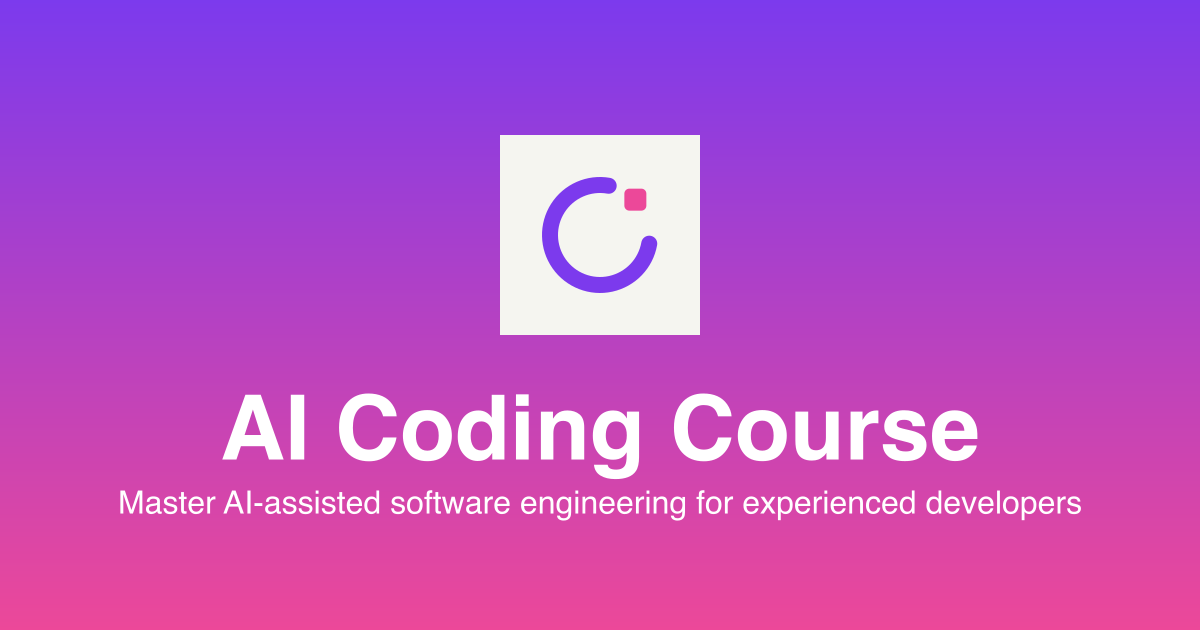
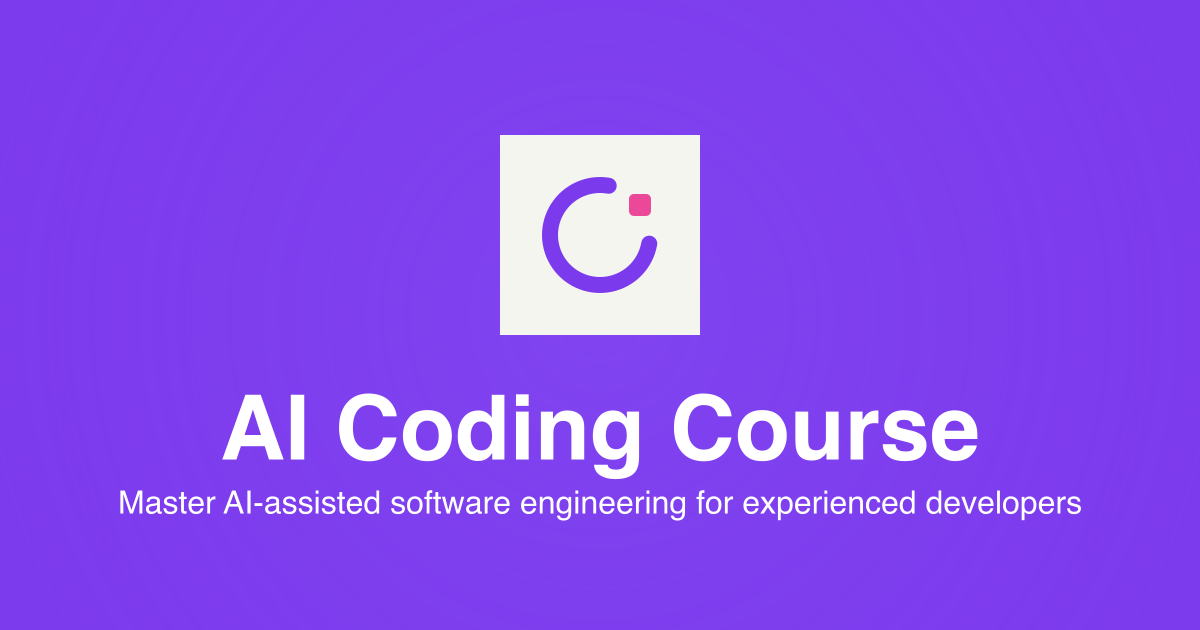
Updated social card

diff --git a/scripts/generate-social-card.js b/scripts/generate-social-card.js
@@ -19,12 +19,19 @@ async function generateSocialCard() {
   const canvas = createCanvas(WIDTH, HEIGHT);
   const ctx = canvas.getContext('2d');
 
-  // Create gradient background (purple to pink, matching the original)
-  const gradient = ctx.createLinearGradient(0, 0, 0, HEIGHT);
-  gradient.addColorStop(0, '#7c3aed');   // Purple
-  gradient.addColorStop(1, '#ec4899');   // Fuchsia/Pink
+  // Solid color background (professional minimalist approach)
+  ctx.fillStyle = '#7c3aed';  // Brand primary purple
+  ctx.fillRect(0, 0, WIDTH, HEIGHT);
 
-  ctx.fillStyle = gradient;
+  // Add subtle radial overlay for depth without over-saturation
+  const radialGradient = ctx.createRadialGradient(
+    WIDTH / 2, HEIGHT / 2, 0,
+    WIDTH / 2, HEIGHT / 2, WIDTH * 0.8
+  );
+  radialGradient.addColorStop(0, 'rgba(139, 92, 246, 0.3)');  // Lighter purple center
+  radialGradient.addColorStop(1, 'rgba(124, 58, 237, 0)');    // Transparent edges
+
+  ctx.fillStyle = radialGradient;
   ctx.fillRect(0, 0, WIDTH, HEIGHT);
 
   // Add a white/cream box in the center for the logo
@@ -57,10 +64,11 @@ async function generateSocialCard() {
   ctx.arc(centerX, centerY, radius, startAngle, endAngle);
   ctx.stroke();
 
-  // Draw the node (small square at top-right)
+  // Draw the node (small square at top-right) - matches logo.svg positioning
   const nodeSize = 22;
-  const nodeX = centerX + Math.cos((Math.PI / 180) * 45) * radius - nodeSize / 2;
-  const nodeY = centerY - Math.sin((Math.PI / 180) * 45) * radius - nodeSize / 2;
+  const nodeAngle = 36.9;  // Match logo.svg (was 45°, causing 8.1° misalignment)
+  const nodeX = centerX + Math.cos((Math.PI / 180) * nodeAngle) * radius - nodeSize / 2;
+  const nodeY = centerY - Math.sin((Math.PI / 180) * nodeAngle) * radius - nodeSize / 2;
 
   ctx.fillStyle = '#ec4899';
   ctx.beginPath();
